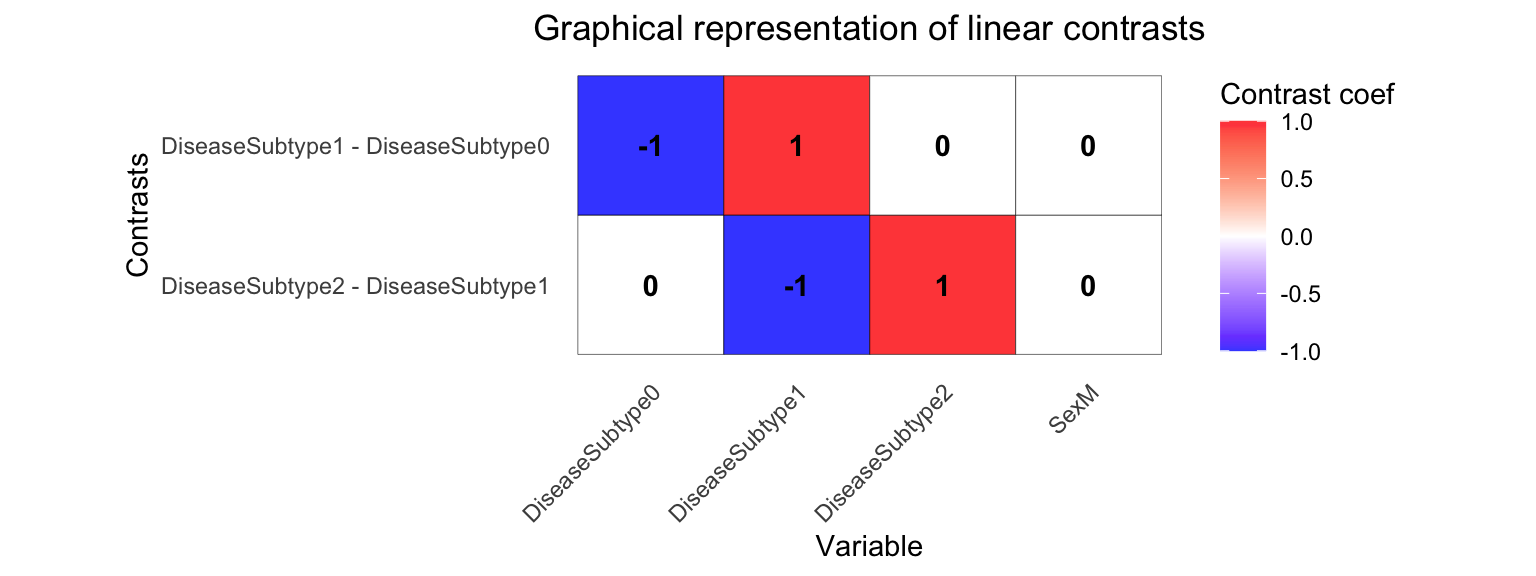
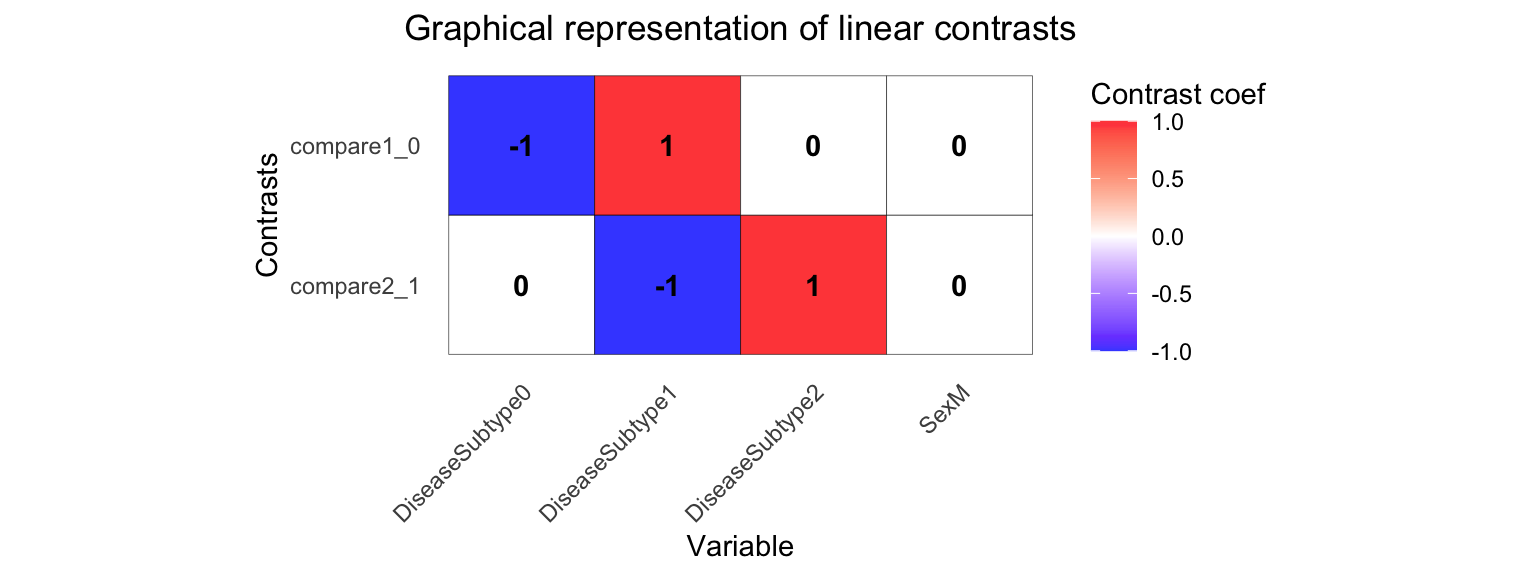
1.28.4

diff --git a/docs/reference/dream-method.html b/docs/reference/dream-method.html
@@ -10,7 +10,7 @@
     
     <a class="navbar-brand me-2" href="../index.html">variancePartition</a>
 
-    <small class="nav-text text-muted me-auto" data-bs-toggle="tooltip" data-bs-placement="bottom" title="">1.28.3</small>
+    <small class="nav-text text-muted me-auto" data-bs-toggle="tooltip" data-bs-placement="bottom" title="">1.28.4</small>
 
     
     <button class="navbar-toggler" type="button" data-bs-toggle="collapse" data-bs-target="#navbar" aria-controls="navbar" aria-expanded="false" aria-label="Toggle navigation">
@@ -85,7 +85,7 @@
 
 
 <dt>formula</dt>
-<dd><p>specifies variables for the linear (mixed) model.  Must only specify covariates, since the rows of exprObj are automatically used as a response. e.g.: <code>~ a + b + (1|c)</code>  Formulas with only fixed effects also work, and <code><a href="https://rdrr.io/pkg/limma/man/lmFit.html" class="external-link">lmFit()</a></code> followed by <code><a href="https://rdrr.io/pkg/limma/man/contrasts.fit.html" class="external-link">contrasts.fit()</a></code> are run.</p></dd>
+<dd><p>specifies variables for the linear (mixed) model.  Must only specify covariates, since the rows of exprObj are automatically used as a response. e.g.: <code>~ a + b + (1|c)</code>  Formulas with only fixed effects also work, and <code>lmFit()</code> followed by <code>contrasts.fit()</code> are run.</p></dd>
 
 
 <dt>data</dt>
@@ -101,15 +101,15 @@
 
 
 <dt>useWeights</dt>
-<dd><p>if TRUE, analysis uses heteroskedastic error estimates from <code><a href="https://rdrr.io/pkg/limma/man/voom.html" class="external-link">voom()</a></code>.  Value is ignored unless exprObj is an <code>EList()</code> from <code><a href="https://rdrr.io/pkg/limma/man/voom.html" class="external-link">voom()</a></code> or <code>weightsMatrix</code> is specified</p></dd>
+<dd><p>if TRUE, analysis uses heteroskedastic error estimates from <code>voom()</code>.  Value is ignored unless exprObj is an <code>EList()</code> from <code>voom()</code> or <code>weightsMatrix</code> is specified</p></dd>
 
 
 <dt>weightsMatrix</dt>
-<dd><p>matrix the same dimension as <code>exprObj</code> with observation-level weights from <code><a href="https://rdrr.io/pkg/limma/man/voom.html" class="external-link">voom()</a></code>.  Used only if useWeights is TRUE</p></dd>
+<dd><p>matrix the same dimension as <code>exprObj</code> with observation-level weights from <code>voom()</code>.  Used only if useWeights is TRUE</p></dd>
 
 
 <dt>control</dt>
-<dd><p>control settings for <code><a href="https://rdrr.io/pkg/lme4/man/lmer.html" class="external-link">lmer()</a></code></p></dd>
+<dd><p>control settings for <code>lmer()</code></p></dd>
 
 
 <dt>suppressWarnings</dt>
@@ -133,7 +133,7 @@
 
 
 <dt>...</dt>
-<dd><p>Additional arguments for <code><a href="https://rdrr.io/pkg/lme4/man/lmer.html" class="external-link">lmer()</a></code> or <code><a href="https://rdrr.io/r/stats/lm.html" class="external-link">lm()</a></code></p></dd>
+<dd><p>Additional arguments for <code>lmer()</code> or <code><a href="https://rdrr.io/r/stats/lm.html" class="external-link">lm()</a></code></p></dd>
 
 </dl></div>
     <div class="section level2">
@@ -177,8 +177,8 @@
 <span class="r-in"><span><span class="va">fit</span> <span class="op">=</span> <span class="fu">dream</span><span class="op">(</span> <span class="va">geneExpr</span><span class="op">[</span><span class="fl">1</span><span class="op">:</span><span class="fl">10</span>,<span class="op">]</span>, <span class="va">form</span>, <span class="va">info</span><span class="op">)</span></span></span>
 <span class="r-msg co"><span class="r-pr">#&gt;</span> Dividing work into 1 chunks...</span>
 <span class="r-msg co"><span class="r-pr">#&gt;</span> </span>
-<span class="r-msg co"><span class="r-pr">#&gt;</span> Total:0.7 s</span>
-<span class="r-in"><span><span class="va">fit</span> <span class="op">=</span> <span class="fu"><a href="https://rdrr.io/pkg/limma/man/ebayes.html" class="external-link">eBayes</a></span><span class="op">(</span><span class="va">fit</span><span class="op">)</span></span></span>
+<span class="r-msg co"><span class="r-pr">#&gt;</span> Total:0.8 s</span>
+<span class="r-in"><span><span class="va">fit</span> <span class="op">=</span> <span class="fu">eBayes</span><span class="op">(</span><span class="va">fit</span><span class="op">)</span></span></span>
 <span class="r-in"><span></span></span>
 <span class="r-in"><span><span class="co"># view top genes</span></span></span>
 <span class="r-in"><span><span class="fu"><a href="toptable-method.html">topTable</a></span><span class="op">(</span> <span class="va">fit</span>, coef<span class="op">=</span><span class="st">"Batch2"</span>, number<span class="op">=</span><span class="fl">3</span> <span class="op">)</span></span></span>
@@ -189,8 +189,9 @@
 <span class="r-in"><span></span></span>
 <span class="r-in"><span><span class="co"># get contrast matrix testing if the coefficient for Batch3 is </span></span></span>
 <span class="r-in"><span><span class="co"># different from coefficient for Batch2</span></span></span>
+<span class="r-in"><span><span class="co"># Name this comparison as 'compare_3_2'</span></span></span>
 <span class="r-in"><span><span class="co"># The variable of interest must be a fixed effect</span></span></span>
-<span class="r-in"><span><span class="va">L</span> <span class="op">=</span> <span class="fu"><a href="makeContrastsDream.html">makeContrastsDream</a></span><span class="op">(</span><span class="va">form</span>, <span class="va">info</span>, contrasts<span class="op">=</span><span class="fu"><a href="https://rdrr.io/r/base/c.html" class="external-link">c</a></span><span class="op">(</span><span class="st">"Batch3 - Batch2"</span><span class="op">)</span><span class="op">)</span></span></span>
+<span class="r-in"><span><span class="va">L</span> <span class="op">=</span> <span class="fu"><a href="makeContrastsDream.html">makeContrastsDream</a></span><span class="op">(</span><span class="va">form</span>, <span class="va">info</span>, contrasts<span class="op">=</span><span class="fu"><a href="https://rdrr.io/r/base/c.html" class="external-link">c</a></span><span class="op">(</span>compare_3_2 <span class="op">=</span> <span class="st">"Batch3 - Batch2"</span><span class="op">)</span><span class="op">)</span></span></span>
 <span class="r-in"><span></span></span>
 <span class="r-in"><span><span class="co"># plot contrasts</span></span></span>
 <span class="r-in"><span><span class="fu"><a href="plotContrasts.html">plotContrasts</a></span><span class="op">(</span> <span class="va">L</span> <span class="op">)</span></span></span>
@@ -201,15 +202,15 @@
 <span class="r-in"><span><span class="va">fit2</span> <span class="op">=</span> <span class="fu">dream</span><span class="op">(</span> <span class="va">geneExpr</span><span class="op">[</span><span class="fl">1</span><span class="op">:</span><span class="fl">10</span>,<span class="op">]</span>, <span class="va">form</span>, <span class="va">info</span>, <span class="va">L</span><span class="op">)</span></span></span>
 <span class="r-msg co"><span class="r-pr">#&gt;</span> Dividing work into 1 chunks...</span>
 <span class="r-msg co"><span class="r-pr">#&gt;</span> </span>
-<span class="r-msg co"><span class="r-pr">#&gt;</span> Total:0.9 s</span>
-<span class="r-in"><span><span class="va">fit</span> <span class="op">=</span> <span class="fu"><a href="https://rdrr.io/pkg/limma/man/ebayes.html" class="external-link">eBayes</a></span><span class="op">(</span><span class="va">fit</span><span class="op">)</span></span></span>
+<span class="r-msg co"><span class="r-pr">#&gt;</span> Total:0.8 s</span>
+<span class="r-in"><span><span class="va">fit2</span> <span class="op">=</span> <span class="fu">eBayes</span><span class="op">(</span><span class="va">fit2</span><span class="op">)</span></span></span>
 <span class="r-in"><span></span></span>
-<span class="r-in"><span><span class="co"># view top genes</span></span></span>
-<span class="r-in"><span><span class="fu"><a href="toptable-method.html">topTable</a></span><span class="op">(</span> <span class="va">fit2</span>, coef<span class="op">=</span><span class="st">"Batch3 - Batch2"</span>, number<span class="op">=</span><span class="fl">3</span><span class="op">)</span></span></span>
-<span class="r-out co"><span class="r-pr">#&gt;</span>            logFC    AveExpr          t   P.Value adj.P.Val      z.std</span>
-<span class="r-out co"><span class="r-pr">#&gt;</span> gene7  0.4655178 -4.3799381  1.3978093 0.1665203 0.8766243  1.3834715</span>
-<span class="r-out co"><span class="r-pr">#&gt;</span> gene6 -0.3642792 -3.1554790 -0.9340122 0.3534470 0.8766243 -0.9279241</span>
-<span class="r-out co"><span class="r-pr">#&gt;</span> gene3 -0.2545920  0.1702122 -0.8705784 0.3869226 0.8766243 -0.8652118</span>
+<span class="r-in"><span><span class="co"># view top genes for this contrast</span></span></span>
+<span class="r-in"><span><span class="fu"><a href="toptable-method.html">topTable</a></span><span class="op">(</span> <span class="va">fit2</span>, coef<span class="op">=</span><span class="st">"compare_3_2"</span>, number<span class="op">=</span><span class="fl">3</span><span class="op">)</span></span></span>
+<span class="r-out co"><span class="r-pr">#&gt;</span>            logFC    AveExpr         t   P.Value adj.P.Val         B      z.std</span>
+<span class="r-out co"><span class="r-pr">#&gt;</span> gene7  0.4655178 -4.3799381  1.401814 0.1630309  0.818457 -4.557141  1.3949502</span>
+<span class="r-out co"><span class="r-pr">#&gt;</span> gene6 -0.3642792 -3.1554790 -1.012189 0.3130697  0.818457 -4.595941 -1.0088017</span>
+<span class="r-out co"><span class="r-pr">#&gt;</span> gene3 -0.2545920  0.1702122 -0.811730 0.4182304  0.818457 -4.611148 -0.8094951</span>
 <span class="r-in"><span></span></span>
 <span class="r-in"><span><span class="co"># Parallel processing using multiple cores with reduced memory usage</span></span></span>
 <span class="r-in"><span><span class="va">param</span> <span class="op">=</span> <span class="fu"><a href="https://rdrr.io/pkg/BiocParallel/man/SnowParam-class.html" class="external-link">SnowParam</a></span><span class="op">(</span><span class="fl">4</span>, <span class="st">"SOCK"</span>, progressbar<span class="op">=</span><span class="cn">TRUE</span><span class="op">)</span></span></span>
@@ -220,16 +221,16 @@
 <span class="r-msg co"><span class="r-pr">#&gt;</span> </span>
 <span class="r-msg co"><span class="r-pr">#&gt;</span> </span>
 <span class="r-msg co"><span class="r-pr">#&gt;</span> Total:5 s</span>
-<span class="r-in"><span><span class="va">fit</span> <span class="op">=</span> <span class="fu"><a href="https://rdrr.io/pkg/limma/man/ebayes.html" class="external-link">eBayes</a></span><span class="op">(</span><span class="va">fit</span><span class="op">)</span></span></span>
+<span class="r-in"><span><span class="va">fit3</span> <span class="op">=</span> <span class="fu">eBayes</span><span class="op">(</span><span class="va">fit3</span><span class="op">)</span></span></span>
 <span class="r-in"><span></span></span>
 <span class="r-in"><span><span class="co"># Fit fixed effect model for each gene</span></span></span>
 <span class="r-in"><span><span class="co"># Use lmFit in the backend</span></span></span>
 <span class="r-in"><span><span class="va">form</span> <span class="op">&lt;-</span> <span class="op">~</span> <span class="va">Batch</span> </span></span>
 <span class="r-in"><span><span class="va">fit4</span> <span class="op">=</span> <span class="fu">dream</span><span class="op">(</span> <span class="va">geneExpr</span><span class="op">[</span><span class="fl">1</span><span class="op">:</span><span class="fl">10</span>,<span class="op">]</span>, <span class="va">form</span>, <span class="va">info</span>, <span class="va">L</span><span class="op">)</span></span></span>
-<span class="r-in"><span><span class="va">fit4</span> <span class="op">=</span> <span class="fu"><a href="https://rdrr.io/pkg/limma/man/ebayes.html" class="external-link">eBayes</a></span><span class="op">(</span> <span class="va">fit4</span> <span class="op">)</span></span></span>
+<span class="r-in"><span><span class="va">fit4</span> <span class="op">=</span> <span class="fu">eBayes</span><span class="op">(</span> <span class="va">fit4</span> <span class="op">)</span></span></span>
 <span class="r-in"><span></span></span>
 <span class="r-in"><span><span class="co"># view top genes</span></span></span>
-<span class="r-in"><span><span class="fu"><a href="toptable-method.html">topTable</a></span><span class="op">(</span> <span class="va">fit4</span>, coef<span class="op">=</span><span class="st">"Batch3 - Batch2"</span>, number<span class="op">=</span><span class="fl">3</span> <span class="op">)</span></span></span>
+<span class="r-in"><span><span class="fu"><a href="toptable-method.html">topTable</a></span><span class="op">(</span> <span class="va">fit4</span>, coef<span class="op">=</span><span class="st">"compare_3_2"</span>, number<span class="op">=</span><span class="fl">3</span> <span class="op">)</span></span></span>
 <span class="r-out co"><span class="r-pr">#&gt;</span>           logFC    AveExpr          t    P.Value adj.P.Val         B</span>
 <span class="r-out co"><span class="r-pr">#&gt;</span> gene8 -1.835677  0.9171386 -1.8703068 0.06312128 0.6312128 -4.581611</span>
 <span class="r-out co"><span class="r-pr">#&gt;</span> gene4 -1.016974 -4.5359748 -1.1783589 0.24026308 0.9496566 -4.593019</span>

diff --git a/docs/404.html b/docs/404.html
@@ -6,25 +6,25 @@
 <meta http-equiv="X-UA-Compatible" content="IE=edge">
 <meta name="viewport" content="width=device-width, initial-scale=1, shrink-to-fit=no">
 <title>Page not found (404) • variancePartition</title>
-<script src="http://gabrielhoffman.github.io/variancePartition/deps/jquery-3.6.0/jquery-3.6.0.min.js"></script><meta name="viewport" content="width=device-width, initial-scale=1, shrink-to-fit=no">
-<link href="http://gabrielhoffman.github.io/variancePartition/deps/bootstrap-5.1.3/bootstrap.min.css" rel="stylesheet">
-<script src="http://gabrielhoffman.github.io/variancePartition/deps/bootstrap-5.1.3/bootstrap.bundle.min.js"></script><!-- Font Awesome icons --><link rel="stylesheet" href="https://cdnjs.cloudflare.com/ajax/libs/font-awesome/5.12.1/css/all.min.css" integrity="sha256-mmgLkCYLUQbXn0B1SRqzHar6dCnv9oZFPEC1g1cwlkk=" crossorigin="anonymous">
+<script src="http://DiseaseNeurogenomics.github.io/variancePartition/deps/jquery-3.6.0/jquery-3.6.0.min.js"></script><meta name="viewport" content="width=device-width, initial-scale=1, shrink-to-fit=no">
+<link href="http://DiseaseNeurogenomics.github.io/variancePartition/deps/bootstrap-5.1.3/bootstrap.min.css" rel="stylesheet">
+<script src="http://DiseaseNeurogenomics.github.io/variancePartition/deps/bootstrap-5.1.3/bootstrap.bundle.min.js"></script><!-- Font Awesome icons --><link rel="stylesheet" href="https://cdnjs.cloudflare.com/ajax/libs/font-awesome/5.12.1/css/all.min.css" integrity="sha256-mmgLkCYLUQbXn0B1SRqzHar6dCnv9oZFPEC1g1cwlkk=" crossorigin="anonymous">
 <link rel="stylesheet" href="https://cdnjs.cloudflare.com/ajax/libs/font-awesome/5.12.1/css/v4-shims.min.css" integrity="sha256-wZjR52fzng1pJHwx4aV2AO3yyTOXrcDW7jBpJtTwVxw=" crossorigin="anonymous">
-<!-- bootstrap-toc --><script src="https://cdn.rawgit.com/afeld/bootstrap-toc/v1.0.1/dist/bootstrap-toc.min.js"></script><!-- headroom.js --><script src="https://cdnjs.cloudflare.com/ajax/libs/headroom/0.11.0/headroom.min.js" integrity="sha256-AsUX4SJE1+yuDu5+mAVzJbuYNPHj/WroHuZ8Ir/CkE0=" crossorigin="anonymous"></script><script src="https://cdnjs.cloudflare.com/ajax/libs/headroom/0.11.0/jQuery.headroom.min.js" integrity="sha256-ZX/yNShbjqsohH1k95liqY9Gd8uOiE1S4vZc+9KQ1K4=" crossorigin="anonymous"></script><!-- clipboard.js --><script src="https://cdnjs.cloudflare.com/ajax/libs/clipboard.js/2.0.6/clipboard.min.js" integrity="sha256-inc5kl9MA1hkeYUt+EC3BhlIgyp/2jDIyBLS6k3UxPI=" crossorigin="anonymous"></script><!-- search --><script src="https://cdnjs.cloudflare.com/ajax/libs/fuse.js/6.4.6/fuse.js" integrity="sha512-zv6Ywkjyktsohkbp9bb45V6tEMoWhzFzXis+LrMehmJZZSys19Yxf1dopHx7WzIKxr5tK2dVcYmaCk2uqdjF4A==" crossorigin="anonymous"></script><script src="https://cdnjs.cloudflare.com/ajax/libs/autocomplete.js/0.38.0/autocomplete.jquery.min.js" integrity="sha512-GU9ayf+66Xx2TmpxqJpliWbT5PiGYxpaG8rfnBEk1LL8l1KGkRShhngwdXK1UgqhAzWpZHSiYPc09/NwDQIGyg==" crossorigin="anonymous"></script><script src="https://cdnjs.cloudflare.com/ajax/libs/mark.js/8.11.1/mark.min.js" integrity="sha512-5CYOlHXGh6QpOFA/TeTylKLWfB3ftPsde7AnmhuitiTX4K5SqCLBeKro6sPS8ilsz1Q4NRx3v8Ko2IBiszzdww==" crossorigin="anonymous"></script><!-- pkgdown --><script src="http://gabrielhoffman.github.io/variancePartition/pkgdown.js"></script><meta property="og:title" content="Page not found (404)">
+<!-- bootstrap-toc --><script src="https://cdn.rawgit.com/afeld/bootstrap-toc/v1.0.1/dist/bootstrap-toc.min.js"></script><!-- headroom.js --><script src="https://cdnjs.cloudflare.com/ajax/libs/headroom/0.11.0/headroom.min.js" integrity="sha256-AsUX4SJE1+yuDu5+mAVzJbuYNPHj/WroHuZ8Ir/CkE0=" crossorigin="anonymous"></script><script src="https://cdnjs.cloudflare.com/ajax/libs/headroom/0.11.0/jQuery.headroom.min.js" integrity="sha256-ZX/yNShbjqsohH1k95liqY9Gd8uOiE1S4vZc+9KQ1K4=" crossorigin="anonymous"></script><!-- clipboard.js --><script src="https://cdnjs.cloudflare.com/ajax/libs/clipboard.js/2.0.6/clipboard.min.js" integrity="sha256-inc5kl9MA1hkeYUt+EC3BhlIgyp/2jDIyBLS6k3UxPI=" crossorigin="anonymous"></script><!-- search --><script src="https://cdnjs.cloudflare.com/ajax/libs/fuse.js/6.4.6/fuse.js" integrity="sha512-zv6Ywkjyktsohkbp9bb45V6tEMoWhzFzXis+LrMehmJZZSys19Yxf1dopHx7WzIKxr5tK2dVcYmaCk2uqdjF4A==" crossorigin="anonymous"></script><script src="https://cdnjs.cloudflare.com/ajax/libs/autocomplete.js/0.38.0/autocomplete.jquery.min.js" integrity="sha512-GU9ayf+66Xx2TmpxqJpliWbT5PiGYxpaG8rfnBEk1LL8l1KGkRShhngwdXK1UgqhAzWpZHSiYPc09/NwDQIGyg==" crossorigin="anonymous"></script><script src="https://cdnjs.cloudflare.com/ajax/libs/mark.js/8.11.1/mark.min.js" integrity="sha512-5CYOlHXGh6QpOFA/TeTylKLWfB3ftPsde7AnmhuitiTX4K5SqCLBeKro6sPS8ilsz1Q4NRx3v8Ko2IBiszzdww==" crossorigin="anonymous"></script><!-- pkgdown --><script src="http://DiseaseNeurogenomics.github.io/variancePartition/pkgdown.js"></script><meta property="og:title" content="Page not found (404)">
 <!-- mathjax --><script src="https://cdnjs.cloudflare.com/ajax/libs/mathjax/2.7.5/MathJax.js" integrity="sha256-nvJJv9wWKEm88qvoQl9ekL2J+k/RWIsaSScxxlsrv8k=" crossorigin="anonymous"></script><script src="https://cdnjs.cloudflare.com/ajax/libs/mathjax/2.7.5/config/TeX-AMS-MML_HTMLorMML.js" integrity="sha256-84DKXVJXs0/F8OTMzX4UR909+jtl4G7SPypPavF+GfA=" crossorigin="anonymous"></script><!--[if lt IE 9]>
 <script src="https://oss.maxcdn.com/html5shiv/3.7.3/html5shiv.min.js"></script>
 <script src="https://oss.maxcdn.com/respond/1.4.2/respond.min.js"></script>
 <![endif]-->
 </head>
 <body>
-    <a href="http://gabrielhoffman.github.io/variancePartition/#main" class="visually-hidden-focusable">Skip to contents</a>
+    <a href="http://DiseaseNeurogenomics.github.io/variancePartition/#main" class="visually-hidden-focusable">Skip to contents</a>
     
 
     <nav class="navbar fixed-top navbar-dark navbar-expand-lg bg-primary"><div class="container">
     
-    <a class="navbar-brand me-2" href="http://gabrielhoffman.github.io/variancePartition/index.html">variancePartition</a>
+    <a class="navbar-brand me-2" href="http://DiseaseNeurogenomics.github.io/variancePartition/index.html">variancePartition</a>
 
-    <small class="nav-text text-muted me-auto" data-bs-toggle="tooltip" data-bs-placement="bottom" title="">1.28.3</small>
+    <small class="nav-text text-muted me-auto" data-bs-toggle="tooltip" data-bs-placement="bottom" title="">1.28.4</small>
 
     
     <button class="navbar-toggler" type="button" data-bs-toggle="collapse" data-bs-target="#navbar" aria-controls="navbar" aria-expanded="false" aria-label="Toggle navigation">
@@ -34,19 +34,19 @@
     <div id="navbar" class="collapse navbar-collapse ms-3">
       <ul class="navbar-nav me-auto">
 <li class="nav-item">
-  <a class="nav-link" href="http://gabrielhoffman.github.io/variancePartition/reference/index.html">Reference</a>
+  <a class="nav-link" href="http://DiseaseNeurogenomics.github.io/variancePartition/reference/index.html">Reference</a>
 </li>
 <li class="nav-item dropdown">
-  <a href="http://gabrielhoffman.github.io/variancePartition/#" class="nav-link dropdown-toggle" data-bs-toggle="dropdown" role="button" aria-expanded="false" aria-haspopup="true" id="dropdown-articles">Articles</a>
+  <a href="http://DiseaseNeurogenomics.github.io/variancePartition/#" class="nav-link dropdown-toggle" data-bs-toggle="dropdown" role="button" aria-expanded="false" aria-haspopup="true" id="dropdown-articles">Articles</a>
   <div class="dropdown-menu" aria-labelledby="dropdown-articles">
-    <a class="dropdown-item" href="http://gabrielhoffman.github.io/variancePartition/articles/FAQ.html">Frequently asked questions</a>
-    <a class="dropdown-item" href="http://gabrielhoffman.github.io/variancePartition/articles/additional_visualization.html">Additional visualizations of variance structure</a>
-    <a class="dropdown-item" href="http://gabrielhoffman.github.io/variancePartition/articles/dream.html">dream</a>
-    <a class="dropdown-item" href="http://gabrielhoffman.github.io/variancePartition/articles/theory_practice_random_effects.html">Theory and practice of random effects and REML</a>
+    <a class="dropdown-item" href="http://DiseaseNeurogenomics.github.io/variancePartition/articles/FAQ.html">Frequently asked questions</a>
+    <a class="dropdown-item" href="http://DiseaseNeurogenomics.github.io/variancePartition/articles/additional_visualization.html">Additional visualizations of variance structure</a>
+    <a class="dropdown-item" href="http://DiseaseNeurogenomics.github.io/variancePartition/articles/dream.html">dream</a>
+    <a class="dropdown-item" href="http://DiseaseNeurogenomics.github.io/variancePartition/articles/theory_practice_random_effects.html">Theory and practice of random effects and REML</a>
   </div>
 </li>
 <li class="nav-item">
-  <a class="nav-link" href="http://gabrielhoffman.github.io/variancePartition/news/index.html">Changelog</a>
+  <a class="nav-link" href="http://DiseaseNeurogenomics.github.io/variancePartition/news/index.html">Changelog</a>
 </li>
       </ul>
 <form class="form-inline my-2 my-lg-0" role="search">
@@ -68,7 +68,7 @@
 </nav><div class="container template-title-body">
 <div class="row">
   <main id="main" class="col-md-9"><div class="page-header">
-      <img src="http://gabrielhoffman.github.io/variancePartition/" class="logo" alt=""><h1>Page not found (404)</h1>
+      <img src="http://DiseaseNeurogenomics.github.io/variancePartition/" class="logo" alt=""><h1>Page not found (404)</h1>
       
     </div>
 

diff --git a/docs/articles/dream.html b/docs/articles/dream.html
@@ -26,7 +26,7 @@
     
     <a class="navbar-brand me-2" href="../index.html">variancePartition</a>
 
-    <small class="nav-text text-muted me-auto" data-bs-toggle="tooltip" data-bs-placement="bottom" title="">1.28.3</small>
+    <small class="nav-text text-muted me-auto" data-bs-toggle="tooltip" data-bs-placement="bottom" title="">1.28.4</small>
 
     
     <button class="navbar-toggler" type="button" data-bs-toggle="collapse" data-bs-target="#navbar" aria-controls="navbar" aria-expanded="false" aria-label="Toggle navigation">
@@ -80,8 +80,8 @@ testing with linear mixed models for repeated measures</h3>
                         <h4 data-toc-skip class="author">Developed by <a href="http://gabrielhoffman.github.io/" class="external-link">Gabriel Hoffman</a>
 </h4>
             
-            <h4 data-toc-skip class="date">Run on 2023-01-19
-12:13:01</h4>
+            <h4 data-toc-skip class="date">Run on 2023-02-02
+16:27:08</h4>
       
       <small class="dont-index">Source: <a href="https://github.com/DiseaseNeuroGenomics/variancePartition/blob/HEAD/vignettes/dream.Rmd" class="external-link"><code>vignettes/dream.Rmd</code></a></small>
       <div class="d-none name"><code>dream.Rmd</code></div>
@@ -162,7 +162,7 @@ workflow for RNA-seq. Process raw count data using limma/voom.</p>
 <span><span class="fu"><a href="https://rdrr.io/r/utils/data.html" class="external-link">data</a></span><span class="op">(</span><span class="va">varPartDEdata</span><span class="op">)</span></span>
 <span></span>
 <span><span class="co"># filter genes by number of counts</span></span>
-<span><span class="va">isexpr</span> <span class="op">=</span> <span class="fu"><a href="https://rdrr.io/pkg/Matrix/man/colSums.html" class="external-link">rowSums</a></span><span class="op">(</span><span class="fu"><a href="https://rdrr.io/pkg/edgeR/man/cpm.html" class="external-link">cpm</a></span><span class="op">(</span><span class="va">countMatrix</span><span class="op">)</span><span class="op">&gt;</span><span class="fl">0.1</span><span class="op">)</span> <span class="op">&gt;=</span> <span class="fl">5</span></span>
+<span><span class="va">isexpr</span> <span class="op">=</span> <span class="fu"><a href="https://rdrr.io/r/base/colSums.html" class="external-link">rowSums</a></span><span class="op">(</span><span class="fu"><a href="https://rdrr.io/pkg/edgeR/man/cpm.html" class="external-link">cpm</a></span><span class="op">(</span><span class="va">countMatrix</span><span class="op">)</span><span class="op">&gt;</span><span class="fl">0.1</span><span class="op">)</span> <span class="op">&gt;=</span> <span class="fl">5</span></span>
 <span></span>
 <span><span class="co"># Standard usage of limma/voom</span></span>
 <span><span class="va">dge</span> <span class="op">=</span> <span class="fu"><a href="https://rdrr.io/pkg/edgeR/man/DGEList.html" class="external-link">DGEList</a></span><span class="op">(</span> <span class="va">countMatrix</span><span class="op">[</span><span class="va">isexpr</span>,<span class="op">]</span> <span class="op">)</span></span>
@@ -290,8 +290,8 @@ confirm it is testing what you intend.</p>
 <code class="sourceCode R"><span><span class="va">form</span> <span class="op">&lt;-</span> <span class="op">~</span> <span class="fl">0</span> <span class="op">+</span> <span class="va">DiseaseSubtype</span> <span class="op">+</span> <span class="va">Sex</span> <span class="op">+</span> <span class="op">(</span><span class="fl">1</span><span class="op">|</span><span class="va">Individual</span><span class="op">)</span> </span>
 <span></span>
 <span><span class="va">L</span> <span class="op">=</span> <span class="fu"><a href="../reference/makeContrastsDream.html">makeContrastsDream</a></span><span class="op">(</span> <span class="va">form</span>, <span class="va">metadata</span>, </span>
-<span>  contrasts <span class="op">=</span> <span class="fu"><a href="https://rdrr.io/r/base/c.html" class="external-link">c</a></span><span class="op">(</span><span class="st">"DiseaseSubtype2 - DiseaseSubtype1"</span>, </span>
-<span>                <span class="st">"DiseaseSubtype1 - DiseaseSubtype0"</span><span class="op">)</span><span class="op">)</span></span>
+<span>  contrasts <span class="op">=</span> <span class="fu"><a href="https://rdrr.io/r/base/c.html" class="external-link">c</a></span><span class="op">(</span>compare2_1 <span class="op">=</span> <span class="st">"DiseaseSubtype2 - DiseaseSubtype1"</span>, </span>
+<span>                compare1_0 <span class="op">=</span> <span class="st">"DiseaseSubtype1 - DiseaseSubtype0"</span><span class="op">)</span><span class="op">)</span></span>
 <span></span>
 <span><span class="co"># Visualize contrast matrix</span></span>
 <span><span class="fu"><a href="../reference/plotContrasts.html">plotContrasts</a></span><span class="op">(</span><span class="va">L</span><span class="op">)</span> </span></code></pre></div>
@@ -303,12 +303,11 @@ confirm it is testing what you intend.</p>
 <span></span>
 <span><span class="co"># get names of available coefficients and contrasts for testing</span></span>
 <span><span class="fu"><a href="https://rdrr.io/r/base/colnames.html" class="external-link">colnames</a></span><span class="op">(</span><span class="va">fit</span><span class="op">)</span></span></code></pre></div>
-<pre><code><span><span class="co">## [1] "DiseaseSubtype2 - DiseaseSubtype1" "DiseaseSubtype1 - DiseaseSubtype0"</span></span>
-<span><span class="co">## [3] "DiseaseSubtype0"                   "DiseaseSubtype1"                  </span></span>
-<span><span class="co">## [5] "DiseaseSubtype2"                   "SexM"</span></span></code></pre>
+<pre><code><span><span class="co">## [1] "compare2_1"      "compare1_0"      "DiseaseSubtype0" "DiseaseSubtype1" "DiseaseSubtype2"</span></span>
+<span><span class="co">## [6] "SexM"</span></span></code></pre>
 <div class="sourceCode" id="cb11"><pre class="downlit sourceCode r">
 <code class="sourceCode R"><span><span class="co"># extract results from first contrast</span></span>
-<span><span class="fu"><a href="../reference/toptable-method.html">topTable</a></span><span class="op">(</span> <span class="va">fit</span>, coef<span class="op">=</span><span class="st">"DiseaseSubtype2 - DiseaseSubtype1"</span>, number<span class="op">=</span><span class="fl">3</span> <span class="op">)</span></span></code></pre></div>
+<span><span class="fu"><a href="../reference/toptable-method.html">topTable</a></span><span class="op">(</span> <span class="va">fit</span>, coef<span class="op">=</span><span class="st">"compare2_1"</span>, number<span class="op">=</span><span class="fl">3</span> <span class="op">)</span></span></code></pre></div>
 <pre><code><span><span class="co">##                                       logFC  AveExpr         t      P.Value  adj.P.Val          B</span></span>
 <span><span class="co">## ENST00000355624.3 gene=RAB11FIP2 -0.9493146 5.260280 -5.114589 3.698015e-05 0.03698015  0.1470282</span></span>
 <span><span class="co">## ENST00000593466.1 gene=DDA1      -1.7265709 3.901579 -3.700902 1.205688e-03 0.60284415 -1.2751588</span></span>

diff --git a/docs/news/index.html b/docs/news/index.html
@@ -10,7 +10,7 @@
     
     <a class="navbar-brand me-2" href="../index.html">variancePartition</a>
 
-    <small class="nav-text text-muted me-auto" data-bs-toggle="tooltip" data-bs-placement="bottom" title="">1.28.3</small>
+    <small class="nav-text text-muted me-auto" data-bs-toggle="tooltip" data-bs-placement="bottom" title="">1.28.4</small>
 
     
     <button class="navbar-toggler" type="button" data-bs-toggle="collapse" data-bs-target="#navbar" aria-controls="navbar" aria-expanded="false" aria-label="Toggle navigation">
@@ -53,6 +53,11 @@
       <small>Source: <a href="https://github.com/DiseaseNeuroGenomics/variancePartition/blob/HEAD/NEWS.md" class="external-link"><code>NEWS.md</code></a></small>
     </div>
 
+    <div class="section level2">
+<h2 class="pkg-version" data-toc-text="1.28.4" id="variancepartition-1284">variancePartition 1.28.4<a class="anchor" aria-label="anchor" href="#variancepartition-1284"></a></h2>
+<ul><li>Feb 2, 2023</li>
+<li>Improve documentation for contrasts</li>
+</ul></div>
     <div class="section level2">
 <h2 class="pkg-version" data-toc-text="1.28.3" id="variancepartition-1283">variancePartition 1.28.3<a class="anchor" aria-label="anchor" href="#variancepartition-1283"></a></h2>
 <ul><li>Jan 19, 2023</li>
@@ -207,7 +212,7 @@
 </ul></div>
     <div class="section level2">
 <h2 class="pkg-version" data-toc-text="1.25.5" id="variancepartition-1255">variancePartition 1.25.5<a class="anchor" aria-label="anchor" href="#variancepartition-1255"></a></h2>
-<ul><li>add <code><a href="../reference/getTreat-method.html">getTreat()</a></code> to evaluate <code><a href="https://rdrr.io/pkg/limma/man/ebayes.html" class="external-link">treat()</a></code>/<code><a href="https://rdrr.io/pkg/limma/man/toptable.html" class="external-link">topTreat()</a></code> seamlessly on results of <code><a href="../reference/dream-method.html">dream()</a></code>
+<ul><li>add <code><a href="../reference/getTreat-method.html">getTreat()</a></code> to evaluate <code>treat()</code>/<code>topTreat()</code> seamlessly on results of <code><a href="../reference/dream-method.html">dream()</a></code>
 </li>
 </ul></div>
     <div class="section level2">
@@ -215,7 +220,7 @@
 <ul><li>in <code><a href="../reference/dream-method.html">dream()</a></code> set default <code>ddf = "adaptive"</code>, which uses “KR” for less than 12 samples</li>
 <li>all functions default tp <code>BPPARAM=SerialParam()</code>
 </li>
-<li>add <code><a href="https://rdrr.io/pkg/limma/man/ebayes.html" class="external-link">eBayes()</a></code> to vignette for <code><a href="../reference/dream-method.html">dream()</a></code>
+<li>add <code>eBayes()</code> to vignette for <code><a href="../reference/dream-method.html">dream()</a></code>
 </li>
 </ul></div>
     <div class="section level2">
@@ -239,7 +244,7 @@
     <div class="section level2">
 <h2 class="pkg-version" data-toc-text="1.23.5" id="variancepartition-1235">variancePartition 1.23.5<a class="anchor" aria-label="anchor" href="#variancepartition-1235"></a></h2>
 <ul><li>use <code>RhpcBLASctl::omp_set_num_threads(1)</code> to use only 1 OpenMP thread for linear algebra within each BiocParallel process</li>
-<li>update <code><a href="../reference/dream-method.html">dream()</a></code> so <code>useWeights=FALSE</code> works with <code><a href="https://rdrr.io/pkg/limma/man/lmFit.html" class="external-link">lmFit()</a></code>
+<li>update <code><a href="../reference/dream-method.html">dream()</a></code> so <code>useWeights=FALSE</code> works with <code>lmFit()</code>
 </li>
 </ul></div>
     <div class="section level2">

diff --git a/docs/reference/index.html b/docs/reference/index.html
@@ -10,7 +10,7 @@
     
     <a class="navbar-brand me-2" href="../index.html">variancePartition</a>
 
-    <small class="nav-text text-muted me-auto" data-bs-toggle="tooltip" data-bs-placement="bottom" title="">1.28.3</small>
+    <small class="nav-text text-muted me-auto" data-bs-toggle="tooltip" data-bs-placement="bottom" title="">1.28.4</small>
 
     
     <button class="navbar-toggler" type="button" data-bs-toggle="collapse" data-bs-target="#navbar" aria-controls="navbar" aria-expanded="false" aria-label="Toggle navigation">

diff --git a/docs/authors.html b/docs/authors.html
@@ -10,7 +10,7 @@
     
     <a class="navbar-brand me-2" href="index.html">variancePartition</a>
 
-    <small class="nav-text text-muted me-auto" data-bs-toggle="tooltip" data-bs-placement="bottom" title="">1.28.3</small>
+    <small class="nav-text text-muted me-auto" data-bs-toggle="tooltip" data-bs-placement="bottom" title="">1.28.4</small>
 
     
     <button class="navbar-toggler" type="button" data-bs-toggle="collapse" data-bs-target="#navbar" aria-controls="navbar" aria-expanded="false" aria-label="Toggle navigation">

diff --git a/docs/index.html b/docs/index.html
@@ -26,7 +26,7 @@
     
     <a class="navbar-brand me-2" href="index.html">variancePartition</a>
 
-    <small class="nav-text text-muted me-auto" data-bs-toggle="tooltip" data-bs-placement="bottom" title="">1.28.3</small>
+    <small class="nav-text text-muted me-auto" data-bs-toggle="tooltip" data-bs-placement="bottom" title="">1.28.4</small>
 
     
     <button class="navbar-toggler" type="button" data-bs-toggle="collapse" data-bs-target="#navbar" aria-controls="navbar" aria-expanded="false" aria-label="Toggle navigation">

diff --git a/NEWS.md b/NEWS.md
@@ -1,3 +1,7 @@
+# variancePartition 1.28.4
+ - Feb 2, 2023
+ - Improve documentation for contrasts
+
 # variancePartition 1.28.3
  - Jan 19, 2023
  - Improve checking and documentation for contrasts
